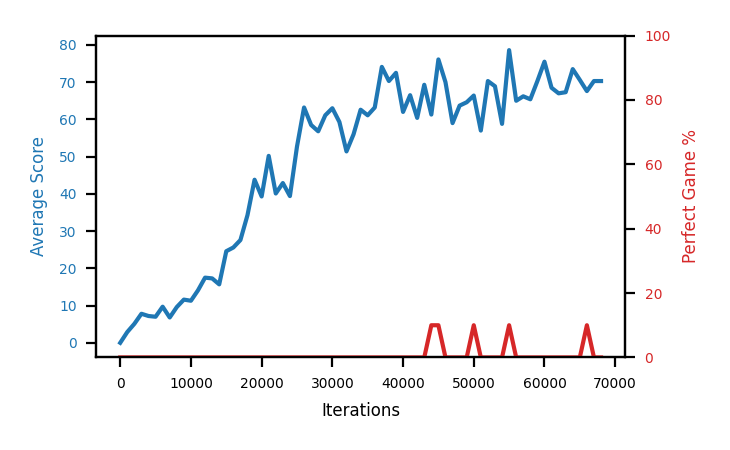
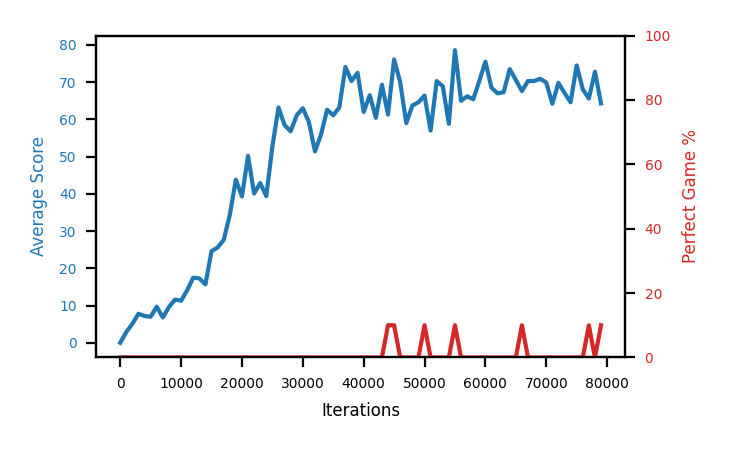
Record batch 1 interim results and fix graph links
Batch 1 compared at matched step 68000 (wall-clock is not comparable
between arms: a better policy has longer episodes, so its evals cost more,
and b1c-nstep3 reached 165k while the others were at 68k purely by being
worse).

last-5 avg: b1a-base 70.5, b1b-tgt200 59.3, b1c-nstep3 32.6. All n=1, and
the same config has previously produced 62.5 and 18.0, so these are
hypotheses rather than findings.

Two results worth acting on:

- Perfect games appear far earlier than the premise of this exercise
  assumed. b1a-base reached a 10% perfect eval at 44k steps and b1b-tgt200
  at 33k, against an expectation of ~1M iterations for ~50%. Possibly the
  cpprb prioritized buffer changing the sample distribution, possibly a
  lucky seed. Batch 2 now leads with repeating the baseline, since nothing
  is interpretable until its spread is known.
- TARGET_UPDATE_PERIOD=200 did the opposite of the prediction on drawdown
  (27.4 vs 19.1) but learned markedly faster early, reaching score 55 by
  15k where the baseline needed ~25k. The frequent-target-update theory of
  forgetting looks wrong; longer periods learning faster looks worth
  chasing at 50 and 500.

Neither arm actually showed catastrophic forgetting at this horizon, just
oscillation around a high plateau, which suggests the collapses seen in
earlier 30k runs were the rising phase plus seed variance.

Also documents max drawdown properly, including the two flaws that make it
[…]

diff --git a/snek2/hyperparamTuning.md b/snek2/hyperparamTuning.md
@@ -28,9 +28,33 @@ usefulness:
 
 1. **last-5-eval average** — much lower variance than a single eval.
 2. **mean over the whole curve** — rewards learning early and holding on.
-3. **max drawdown** — biggest drop from a running peak. This is the direct
-   measurement of catastrophic forgetting and the thing this investigation is
-   mainly chasing.
+3. **max drawdown** — how much score the policy gave back after peaking. Borrowed
+   from finance: track the best avg_score seen so far, and record the largest gap
+   between that running peak and a later eval.
+
+   ```python
+   peak, worst = float('-inf'), 0.0
+   for row in eval_rows:
+       peak = max(peak, row['avg_score'])
+       worst = max(worst, peak - row['avg_score'])
+   ```
+
+   Units are avg_score, i.e. food eaten. `b1a-base` peaked at 78.6 and later read
+   59.5, so its max drawdown is 19.1 — it lost 19 food off its best. High drawdown
+   is meant to mean "learned something and then lost it", which is the
+   catastrophic-forgetting symptom this investigation is chasing.
+
+   **Two known flaws, so don't lean on it alone:**
+   - It can't tell steady oscillation around a *high* plateau from a genuine
+     collapse. `b1b-tgt200` scores worse than the baseline on it purely for
+     bouncing around while sitting at a similar level.
+   - It's an absolute number, so a run that reaches higher scores has further to
+     fall and is penalised for being good. Comparing drawdown across arms that
+     plateaued at very different heights is close to meaningless.
+
+   A better version would be the largest **sustained** drop — one that persists
+   across several consecutive evals rather than a single bad one — ideally as a
+   fraction of the peak. Not implemented yet.
 4. **steps to first reach score N** — for comparing learning speed.
 
 ---
@@ -115,6 +139,12 @@ Each run continuously writes to `snek2/runs/`:
 <policy>_evals.json   full eval series; this is what later sessions analyse
 ```
 
+When embedding a graph in *this* file, the path needs the `runs/` prefix
+(`![name](runs/name.png)`) because this file lives in `snek2/` while the artifacts
+live in `snek2/runs/`. The auto-generated `runs/<policy>.md` files link without a
+prefix, since they sit in the same directory. Easy to get wrong — check that links
+resolve after editing.
+
 **Never delete anything in `snek2/runs/`** (see `CLAUDE.md`). Re-running the same
 policy name continues its graph and draws a dashed line at the resume step, so a
 promising run can be extended later just by launching it again with the same name.
@@ -182,12 +212,100 @@ These are already established; don't re-litigate them without new evidence.
 
 ## Completed runs
 
-Nothing yet under this protocol. Batch 1 is the first. Earlier ad-hoc results are
-summarized under prior findings above; their raw logs were not kept.
+### Batch 1 — interim, all still running
 
-| policy | key change | steps | last-5 avg | max drawdown | verdict |
+Compared at **matched step 68000**, because wall-clock progress is not comparable
+between arms (see the eval-cost confound below).
+
+| policy | key change | last-5 | curve mean | max drawdown | peak |
 |---|---|---|---|---|---|
-| — | — | — | — | — | — |
+| `b1a-base` | none (control) | **70.5** | 49.1 | 19.1 | 78.6 |
+| `b1b-tgt200` | `TARGET_UPDATE_PERIOD=200` | 59.3 | **51.6** | 27.4 | 76.9 |
+| `b1c-nstep3` | `N_STEP_UPDATE=3` | 32.6 | 13.9 | **13.0** | 38.1 |
+
+Graphs update live as the runs progress. Paths are relative to this file, which
+sits in `snek2/` while the artifacts are in `snek2/runs/`.
+
+**b1a-base** (control) — steady climb to a ~70 plateau, perfect games from 44k:
+
+![b1a-base](runs/b1a-base.png)
+
+**b1b-tgt200** — faster early rise, noisier plateau, perfect games from 33k:
+
+![b1b-tgt200](runs/b1b-tgt200.png)
+
+**b1c-nstep3** — slower throughout, no perfect games even by 165k:
+
+![b1c-nstep3](runs/b1c-nstep3.png)
+
+**Everything below is n=1 and this domain is very noisy. Treat as hypotheses to
+test, not conclusions.** The single most useful next action is repeating the
+baseline, because nothing here can be interpreted without knowing its spread.
+
+#### The big surprise: perfect games arrive ~20x earlier than expected
+
+The premise of this investigation was that perfect games need ~1M iterations to
+reach ~50%. `b1a-base` produced its **first 10% perfect-game eval at ~44k steps**,
+and `b1b-tgt200` at **~33k**. Both plateau in avg_score around 65-75 out of 95 by
+40k.
+
+That is a large enough discrepancy to be worth chasing before tuning anything
+else, since it changes what "good" means. Candidate explanations, untested:
+
+1. The code changed materially since the 1M-iteration experience was formed — the
+   replay buffer is now cpprb prioritized rather than `PyUniformReplayBuffer`, and
+   the collect policy runs under `tf.function`. Neither *should* change learning
+   per step, but PER changes the sample distribution, so it might.
+2. Lucky seed. Entirely plausible at n=1 given the documented 62.5-vs-18.0 spread.
+3. The human's long-running `train` policy carries 1.3M steps of history under the
+   older code, so its trajectory isn't directly comparable to a fresh run.
+
+Worth asking the human whether ~10% perfect at 44k is genuinely faster than they
+have seen, since they have the historical context that these logs don't.
+
+#### `TARGET_UPDATE_PERIOD=200`: hypothesis not supported, but interesting anyway
+
+The prediction was smoother curves and smaller drawdowns. It got the **opposite**
+on the drawdown metric (27.4 vs 19.1) and a lower last-5. What it did do is learn
+**much faster early** — roughly score 55 by 15k steps where the baseline needed
+~25k — and reach its first perfect game sooner.
+
+So the frequent-target-update theory of catastrophic forgetting looks wrong, at
+least at this horizon, while "less frequent target updates learn faster early"
+looks worth pursuing. Try 50 and 500 to see whether there's a trend or this is
+noise.
+
+#### `N_STEP_UPDATE=3`: clearly slower per step
+
+Much worse at matched steps, and even after running to 161k (last-5 50.6, peak
+66.3) it stayed below where the baseline was at 68k. It did have the lowest
+drawdown, but that is mostly an artefact of never getting high enough to fall far.
+Deprioritize n-step; if revisited, try n=2 rather than 3.
+
+#### Neither arm actually showed catastrophic forgetting
+
+At this horizon both arms oscillate roughly +/-10 around a high plateau rather
+than collapsing. That is qualitatively different from the collapses seen in the
+earlier short 30k runs, which in hindsight were probably the rising phase plus
+seed variance rather than forgetting.
+
+This also exposes a **flaw in the max-drawdown metric**: it cannot tell noisy
+oscillation around a good plateau apart from a genuine collapse. `b1b` scores
+worse on it purely for oscillating at a high level. A better forgetting metric
+would be something like the largest sustained drop — a drawdown that persists over
+several consecutive evals rather than one bad eval. Worth implementing before
+leaning on drawdown again.
+
+#### Confound found: eval cost scales with policy quality
+
+A better policy eats more food, so its episodes are longer, so its 10-episode eval
+takes longer in wall-clock. `b1c-nstep3` reached 161k steps while the other two
+were at ~68k in the same elapsed time, purely because it was worse and its evals
+were cheap.
+
+Consequences: never compare arms by wall-clock or by "where they got to"; always
+compare at matched steps. And a batch of arms will drift apart in step count, so
+plan to stop them by step count rather than by time.
 
 ---
 
@@ -214,11 +332,16 @@ commitment.
    Expect: earlier onset of learning (relevant to the "nothing until 40k" effect)
    and better late-game behaviour.
 
-### Batch 2 candidates (pick based on batch 1)
+### Batch 2 — revised after batch 1's interim results
 
-4. **Winner of batch 1, repeated 2-3x.** Mandatory before believing anything,
-   given the 62.5-vs-18.0 noise.
-5. **`tgt200 + nstep3` combined**, if both help individually.
+4. **`b2a-base2` / `b2b-base3`: repeat the baseline 2-3x.** Now the top priority,
+   not an afterthought. Batch 1 says the baseline reaches ~70 avg score and 10%
+   perfect games by ~44k, which contradicts the premise of the whole exercise.
+   Until the baseline's spread is known, no arm can be judged against it. These
+   also test whether the early perfect games reproduce.
+5. **`TARGET_UPDATE_PERIOD=50` and `=500`.** Batch 1 hinted that longer periods
+   learn faster early even though they didn't reduce drawdown. Two more points
+   establish whether that's a trend or noise.
 6. **`LEARNING_RATE=1e-4`** *only after* the target-update fix. Currently 1e-5 is
    very conservative; the in-code comment already suggests 1e-4. With a stable
    target it may train several times faster. On its own with `TARGET_UPDATE_PERIOD=8`

diff --git a/snek2/runs/b1c-nstep3.md b/snek2/runs/b1c-nstep3.md
@@ -4,7 +4,7 @@
 
 Blue is average score (food eaten) on the left axis, red is perfect-game percentage on the right.
 
-Latest eval: step 160000, avg score 42.3, perfect games 0%.
+Latest eval: step 178000, avg score 44.0, perfect games 0%.
 
 ## Config
 
@@ -34,7 +34,7 @@ Latest eval: step 160000, avg score 42.3, perfect games 0%.
 
 ## Evals
 
-161 evals so far. Full series in [`b1c-nstep3_evals.json`](b1c-nstep3_evals.json).
+179 evals so far. Full series in [`b1c-nstep3_evals.json`](b1c-nstep3_evals.json).
 
 | step | avg score | trailing avg | min score | max score | avg reward | perfect % | epsilon |
 |---|---|---|---|---|---|---|---|
@@ -42,15 +42,15 @@ Latest eval: step 160000, avg score 42.3, perfect games 0%.
 | 1000 | 1.8 | 1.8 | 0 | 5/95 | -1.0 | 0 | 0.4 |
 | 2000 | 0.0 | 0.9 | 0 | 0/95 | -5.005 | 0 | 0.4 |
 | ... | | | | | | | |
-| 149000 | 46.7 | 41.18 | 28 | 88/95 | 41.459 | 0 | 0.01 |
-| 150000 | 35.8 | 40.42 | 14 | 53/95 | 30.65 | 0 | 0.01 |
-| 151000 | 42.6 | 43.2 | 22 | 76/95 | 37.372 | 0 | 0.01 |
-| 152000 | 44.2 | 43.38 | 8 | 66/95 | 39.0 | 0 | 0.01 |
-| 153000 | 47.9 | 43.44 | 23 | 74/95 | 42.556 | 0 | 0.01 |
-| 154000 | 40.6 | 42.22 | 21 | 67/95 | 35.402 | 0 | 0.01 |
-| 155000 | 42.9 | 43.64 | 12 | 87/95 | 38.074 | 0 | 0.01 |
-| 156000 | 51.8 | 45.48 | 33 | 74/95 | 46.974 | 0 | 0.01 |
-| 157000 | 54.2 | 47.48 | 32 | 82/95 | 48.841 | 0 | 0.01 |
-| 158000 | 66.3 | 51.16 | 34 | 90/95 | 60.798 | 0 | 0.001 |
-| 159000 | 45.1 | 52.06 | 22 | 86/95 | 39.859 | 0 | 0.001 |
-| 160000 | 42.3 | 51.94 | 25 | 78/95 | 37.102 | 0 | 0.001 |
+| 167000 | 39.2 | 42.1 | 22 | 72/95 | 34.031 | 0 | 0.001 |
+| 168000 | 41.7 | 41.12 | 15 | 76/95 | 36.472 | 0 | 0.001 |
+| 169000 | 41.9 | 41.62 | 9 | 78/95 | 37.09 | 0 | 0.001 |
+| 170000 | 47.4 | 40.9 | 16 | 85/95 | 42.536 | 0 | 0.001 |
+| 171000 | 38.4 | 41.72 | 8 | 78/95 | 33.59 | 0 | 0.001 |
+| 172000 | 53.4 | 44.56 | 8 | 80/95 | 47.966 | 0 | 0.001 |
+| 173000 | 56.7 | 47.56 | 18 | 91/95 | 51.282 | 0 | 0.001 |
+| 174000 | 50.2 | 49.22 | 30 | 73/95 | 44.835 | 0 | 0.001 |
+| 175000 | 33.6 | 46.46 | 10 | 79/95 | 28.405 | 0 | 0.001 |
+| 176000 | 48.2 | 48.42 | 26 | 76/95 | 42.837 | 0 | 0.001 |
+| 177000 | 54.9 | 48.72 | 30 | 80/95 | 49.564 | 0 | 0.001 |
+| 178000 | 44.0 | 46.18 | 20 | 66/95 | 38.743 | 0 | 0.001 |

diff --git a/snek2/runs/b1b-tgt200.md b/snek2/runs/b1b-tgt200.md
@@ -4,7 +4,7 @@
 
 Blue is average score (food eaten) on the left axis, red is perfect-game percentage on the right.
 
-Latest eval: step 69000, avg score 68.5, perfect games 0%.
+Latest eval: step 83000, avg score 64.4, perfect games 0%.
 
 ## Config
 
@@ -34,7 +34,7 @@ Latest eval: step 69000, avg score 68.5, perfect games 0%.
 
 ## Evals
 
-70 evals so far. Full series in [`b1b-tgt200_evals.json`](b1b-tgt200_evals.json).
+84 evals so far. Full series in [`b1b-tgt200_evals.json`](b1b-tgt200_evals.json).
 
 | step | avg score | trailing avg | min score | max score | avg reward | perfect % | epsilon |
 |---|---|---|---|---|---|---|---|
@@ -42,15 +42,15 @@ Latest eval: step 69000, avg score 68.5, perfect games 0%.
 | 1000 | 1.1 | 1.1 | 0 | 3/95 | -3.915 | 0 | 0.4 |
 | 2000 | 1.8 | 1.45 | 0 | 4/95 | -1.004 | 0 | 0.4 |
 | ... | | | | | | | |
-| 58000 | 49.5 | 61.56 | 19 | 76/95 | 45.414 | 0 | 0.001 |
-| 59000 | 71.7 | 62.78 | 41 | 87/95 | 66.791 | 0 | 0.001 |
-| 60000 | 68.0 | 64.62 | 48 | 83/95 | 63.238 | 0 | 0.001 |
-| 61000 | 60.5 | 63.86 | 40 | 89/95 | 55.834 | 0 | 0.001 |
-| 62000 | 62.6 | 62.46 | 43 | 79/95 | 57.841 | 0 | 0.001 |
-| 63000 | 58.1 | 64.18 | 17 | 78/95 | 53.482 | 0 | 0.001 |
-| 64000 | 62.0 | 62.24 | 41 | 78/95 | 56.919 | 0 | 0.001 |
-| 65000 | 59.6 | 60.56 | 22 | 84/95 | 54.919 | 0 | 0.001 |
-| 66000 | 61.8 | 60.82 | 46 | 92/95 | 56.356 | 0 | 0.001 |
-| 67000 | 54.5 | 59.2 | 28 | 76/95 | 51.29 | 0 | 0.001 |
-| 68000 | 58.4 | 59.26 | 28 | 77/95 | 53.03 | 0 | 0.001 |
-| 69000 | 68.5 | 60.56 | 47 | 88/95 | 64.214 | 0 | 0.001 |
+| 72000 | 63.6 | 62.24 | 25 | 85/95 | 60.265 | 0 | 0.001 |
+| 73000 | 59.7 | 62.5 | 20 | 83/95 | 54.744 | 0 | 0.001 |
+| 74000 | 64.2 | 61.64 | 22 | 87/95 | 59.95 | 0 | 0.001 |
+| 75000 | 59.3 | 62.42 | 22 | 85/95 | 54.703 | 0 | 0.001 |
+| 76000 | 69.7 | 63.3 | 54 | 82/95 | 64.999 | 0 | 0.001 |
+| 77000 | 72.8 | 65.14 | 59 | 78/95 | 67.637 | 0 | 0.001 |
+| 78000 | 54.6 | 64.12 | 44 | 86/95 | 50.091 | 0 | 0.001 |
+| 79000 | 51.9 | 61.66 | 28 | 68/95 | 46.565 | 0 | 0.001 |
+| 80000 | 58.4 | 61.48 | 23 | 81/95 | 53.392 | 0 | 0.001 |
+| 81000 | 58.1 | 59.16 | 34 | 86/95 | 53.068 | 0 | 0.001 |
+| 82000 | 63.2 | 57.24 | 51 | 71/95 | 58.54 | 0 | 0.001 |
+| 83000 | 64.4 | 59.2 | 27 | 89/95 | 59.794 | 0 | 0.001 |

diff --git a/snek2/runs/b1a-base.md b/snek2/runs/b1a-base.md
@@ -4,7 +4,7 @@
 
 Blue is average score (food eaten) on the left axis, red is perfect-game percentage on the right.
 
-Latest eval: step 68000, avg score 70.3, perfect games 0%.
+Latest eval: step 79000, avg score 64.3, perfect games 10%.
 
 ## Config
 
@@ -34,7 +34,7 @@ Latest eval: step 68000, avg score 70.3, perfect games 0%.
 
 ## Evals
 
-69 evals so far. Full series in [`b1a-base_evals.json`](b1a-base_evals.json).
+80 evals so far. Full series in [`b1a-base_evals.json`](b1a-base_evals.json).
 
 | step | avg score | trailing avg | min score | max score | avg reward | perfect % | epsilon |
 |---|---|---|---|---|---|---|---|
@@ -42,15 +42,15 @@ Latest eval: step 68000, avg score 70.3, perfect games 0%.
 | 1000 | 2.9 | 2.9 | 0 | 8/95 | -2.155 | 0 | 0.4 |
 | 2000 | 5.1 | 4.0 | 0 | 12/95 | 0.08 | 0 | 0.4 |
 | ... | | | | | | | |
-| 57000 | 66.2 | 67.5 | 31 | 93/95 | 63.498 | 0 | 0.001 |
-| 58000 | 65.4 | 66.8 | 42 | 90/95 | 60.638 | 0 | 0.001 |
-| 59000 | 70.3 | 69.1 | 38 | 90/95 | 65.849 | 0 | 0.001 |
-| 60000 | 75.5 | 68.48 | 60 | 84/95 | 70.065 | 0 | 0.001 |
-| 61000 | 68.5 | 69.18 | 48 | 84/95 | 64.305 | 0 | 0.001 |
-| 62000 | 67.0 | 69.34 | 35 | 89/95 | 63.805 | 0 | 0.001 |
-| 63000 | 67.3 | 69.72 | 45 | 84/95 | 62.979 | 0 | 0.001 |
-| 64000 | 73.5 | 70.36 | 49 | 91/95 | 69.934 | 0 | 0.001 |
-| 65000 | 70.6 | 69.38 | 17 | 91/95 | 67.821 | 0 | 0.001 |
-| 66000 | 67.6 | 69.2 | 27 | 95/95 | 74.081 | 10 | 0.001 |
-| 67000 | 70.3 | 69.86 | 38 | 86/95 | 66.804 | 0 | 0.001 |
 | 68000 | 70.3 | 70.46 | 50 | 88/95 | 65.468 | 0 | 0.001 |
+| 69000 | 70.9 | 69.94 | 18 | 91/95 | 67.344 | 0 | 0.001 |
+| 70000 | 69.9 | 69.8 | 44 | 83/95 | 65.454 | 0 | 0.001 |
+| 71000 | 64.2 | 69.12 | 37 | 93/95 | 59.866 | 0 | 0.001 |
+| 72000 | 69.8 | 69.02 | 37 | 91/95 | 65.9 | 0 | 0.001 |
+| 73000 | 67.1 | 68.38 | 22 | 90/95 | 63.182 | 0 | 0.001 |
+| 74000 | 64.6 | 67.12 | 35 | 87/95 | 61.502 | 0 | 0.001 |
+| 75000 | 74.5 | 68.04 | 53 | 93/95 | 70.394 | 0 | 0.001 |
+| 76000 | 68.1 | 68.82 | 7 | 91/95 | 64.166 | 0 | 0.001 |
+| 77000 | 65.6 | 67.98 | 36 | 95/95 | 71.279 | 10 | 0.001 |
+| 78000 | 72.8 | 69.12 | 28 | 87/95 | 69.666 | 0 | 0.001 |
+| 79000 | 64.3 | 69.06 | 30 | 95/95 | 69.564 | 10 | 0.001 |
